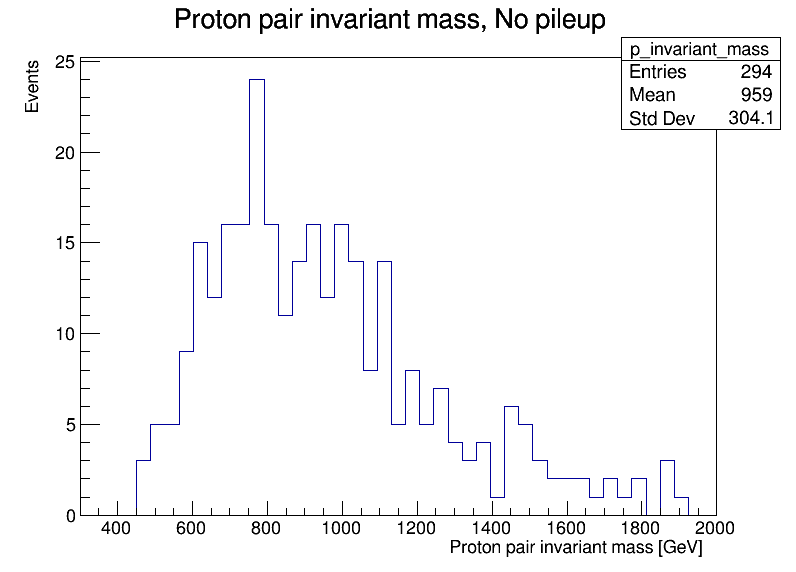
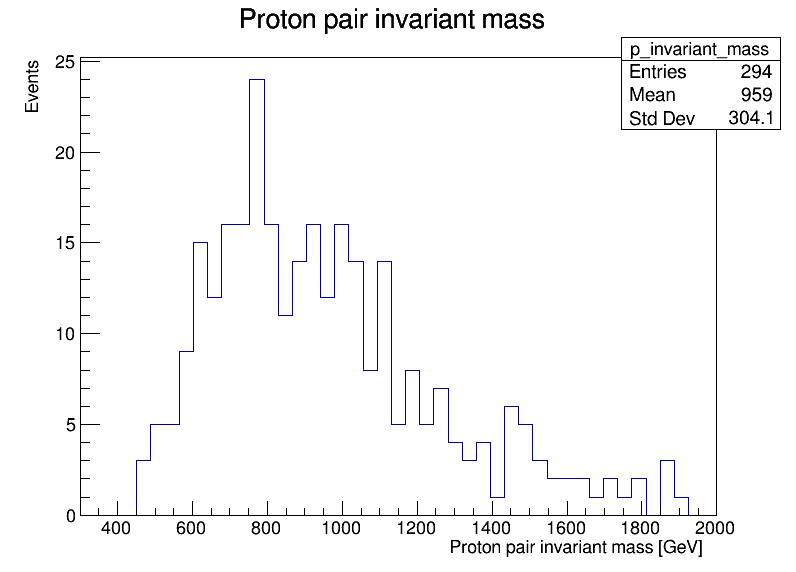
generalize plots code

Changed region(s): [[0.2111, 0.0, 0.7538, 0.0594]]

diff --git a/plots/plots2.py b/plots/plots2.py
@@ -7,104 +7,8 @@ import os
 #filename ="/eos/user/m/mblancco/samples_2018_tautau/fase1/GammaGammaTauTau_SignalMC_SM_18UL_23k_NANOAODSIM_fase1_with_xi_qcdcode.root"
 
 #filename="/eos/user/m/mblancco/samples_2018_tautau/fase0_2/ttJetscode_GammaGammaTauTau_SignalMC_SM_18UL_23k_NANOAODSIM_fase0_with_xi_and_deltaphi.root"
-filename="/eos/user/m/mblancco/samples_2018_tautau/fase0_2/ttJetsCode_GammaGammaTauTau_SignalMC_SM_18UL_23k_NANOAODSIM_fase0.root"
+#filename="/eos/user/m/mblancco/samples_2018_tautau/fase0_2/ttJetscode_GammaGammaTauTau_SignalMC_SM_18UL_23k_NANOAODSIM_fase0_no_pileups.root"
 #filename_bck="/eos/user/m/mblancco/samples_2018_tautau/fase0_background/QCD_2018_UL_skimmed_TauTau_nano.root"
-
-file = ROOT.TFile.Open(filename)
-
-if not file or file.IsZombie():
-    print(f"Error: Could not open file {filename}")
-    exit(1)
-
-tree_name = "tree"  # Replace with the actual TTree name
-tree = file.Get(tree_name)
-
-if not tree:
-    print(f"Error: Could not find TTree '{tree_name}' in file {filename}")
-    file.Close()
-    exit(1)
-    
-
-
-# Create histograms
-hist_tau0_pt = ROOT.TH1F("tau0_pt", "Tau+ pT, No pileup; pT [GeV]; Events", 100, 0, 600)
-hist_tau1_pt = ROOT.TH1F("tau1_pt", "Tau- pT, No pileup; pT [GeV]; Events", 100, 0, 600)
-hist_tau0_eta = ROOT.TH1F("tau0_eta", "Tau+ Eta, No pileup; #eta; Events", 100, -3, 3)
-hist_tau1_eta = ROOT.TH1F("tau1_eta", "Tau- Eta, No pileup; #eta; Events", 100, -3, 3)
-hist_sist_mass = ROOT.TH1F("sist_mass", "Invariant Mass of Tau Pair, No pileup; Mass [GeV]; Events", 100, 0, 1000)
-hist_sist_rap = ROOT.TH1F("sist_rap", "Rapidity of Tau Pair, No pileup; Rapidity; Events", 100, -2, 2)
-hist_delta_phi = ROOT.TH1F("delta_phi", "Delta Phi Between Tau+ and Tau-, No pileup; #Delta#phi; Events", 250, 3.06, 3.15)
-hist_xi = ROOT.TH1F("xi", "Proton Energy Loss, No pileup; Proton energy loss #xi; Events", 200, 0, 0.2)
-hist_tau0_phi = ROOT.TH1F("tau0_phi", "Tau0 Phi; #phi, No pileup; Events",100, -4, 4)
-hist_tau1_phi = ROOT.TH1F("tau1_phi", "Tau1 Phi; #phi, No pileup; Events",100, -4, 4)
-hist_ttpair_inv_mass=ROOT.TH1F("invariant_mass_tt_pair", "Tau pair invariant mass, No pileup; Tau pair invariant mass [GeV]; Events",75,0, 1000 )
-hist_invariant_mass=ROOT.TH1F("p_invariant_mass", "Proton pair invariant mass, No pileup; Proton pair invariant mass [GeV]; Events",45, 300, 2000 )
-hist_p_rapidity=ROOT.TH1F("p_rapidity", "Proton pair rapidity, No pileup; Proton pair rapidity; Events",55,-1.5,1.5 )
-hist_tt_rapidity=ROOT.TH1F("tt_rapidity", "Tau pair rapidity, No pileup; Tau pair rapidity; Events",75,-3,3)
-hist_diff_mass=ROOT.TH1F("p-t mass","p-t mass ",100,-100,2000)
-hist_diff_rapidity=ROOT.TH1F("p-t rapidity","p-t rapidity",100,-10,10)
-
-# Helper function to check if a branch exists
-def check_branch(event, branch_name):
-    if not hasattr(event, branch_name):
-        raise RuntimeError(f"Error: Branch '{branch_name}' does not exist in the event.")
-
-# Loop over the tree and fill histograms
-for event in tree:
-    # Tau kinematics
-    check_branch(event, "tau0_pt")
-    hist_tau0_pt.Fill(event.tau0_pt)
-    
-    check_branch(event, "tau1_pt")
-    hist_tau1_pt.Fill(event.tau1_pt)
-    
-    check_branch(event, "tau0_eta")
-    hist_tau0_eta.Fill(event.tau0_eta)
-    
-    check_branch(event, "tau1_eta")
-    hist_tau1_eta.Fill(event.tau1_eta)
-    
-    # Tau pair invariant mass and rapidity
-    check_branch(event, "sist_mass")
-    hist_sist_mass.Fill(event.sist_mass)
-    
-    check_branch(event, "sist_rap")
-    hist_sist_rap.Fill(event.sist_rap)
-    
-    # Delta Phi
-    check_branch(event, "delta_phi")
-    abs_delta_phi = abs(event.delta_phi)
-    hist_delta_phi.Fill(abs_delta_phi)
-    
-    # Proton energy loss
-    if hasattr(event, "proton_xi_multi_rp"):  # Optional variable
-        hist_xi.Fill(event.proton_xi_multi_rp)
-    
-    # Tau phi
-    check_branch(event, "tau0_phi")
-    hist_tau0_phi.Fill(event.tau0_phi)
-    
-    check_branch(event, "tau1_phi")
-    hist_tau1_phi.Fill(event.tau1_phi)
-    
-    # Invariant mass and rapidity
-    check_branch(event, "invariant_mass_tt_pair")
-    hist_ttpair_inv_mass.Fill(event.invariant_mass_tt_pair)
-    
-    check_branch(event, "p_invariant_mass")
-    print(event.p_invariant_mass)
-    hist_invariant_mass.Fill(event.p_invariant_mass)
-    
-    check_branch(event, "p_rapidity")
-    hist_p_rapidity.Fill(event.p_rapidity)
-    
-    # Difference in mass and rapidity
-    check_branch(event, "invariant_mass_tt_pair")
-    check_branch(event, "p_invariant_mass")
-    hist_diff_mass.Fill(event.p_invariant_mass - event.invariant_mass_tt_pair)
-    
-    check_branch(event, "tt_rapidity")
-    hist_diff_rapidity.Fill(event.p_rapidity - event.tt_rapidity)
 
 
 
@@ -117,30 +21,181 @@ def save_histogram(hist, filename):
     canvas.Close()  # Close the canvas to free memory
     print(f"Saved {filename}")
 
-dirr="/eos/user/m/mblancco/tau_analysis/plots/plots_fase0/"
+# Helper function to check if a branch exists
+def check_branch(event, branch_name):
+    if not hasattr(event, branch_name):
+        raise RuntimeError(f"Error: Branch '{branch_name}' does not exist in the event.")
 
-if not os.path.exists(dirr):
-    os.makedirs(dirr)
+    
+def create_hist(input,vars,dest,pileup):
+    
+    file = ROOT.TFile.Open(input)
+
+    if not file or file.IsZombie():
+        print(f"Error: Could not open file {input}")
+        exit(1)
+
+    tree_name = "tree"  # Replace with the actual TTree name
+    tree = file.Get(tree_name)
+
+    if not tree:
+        print(f"Error: Could not find TTree '{tree_name}' in file {input}")
+        file.Close()
+        exit(1)
+
+
+    if not os.path.exists(dest):
+        os.makedirs(dest)
+
+
+    title=""
+    bins=0
+    for v in vars:
+        # v0=v[0].replace("'",'')
+        # v1=v[1].replace("'",'')
+
+        if pileup:
+            title="No pileup: "+v[1]
+            bins=v[5]
+        else:
+            title=v[1]
+            bins=v[2]
+        print(v[0])
+        print(v[1])
+        print(v[2])
+        
+        hist=ROOT.TH1F(v[0],title,int(v[2]),float(v[3]),float(v[4]))
+        #hist=ROOT.TH1F("tau0_pt", "Tau+ pT; pT [GeV]; Events", 80, 0, 600)
+        
+        for event in tree:
+            check_branch(event,v[0])
+            hist.Fill(getattr(event, v[0]))
+        filenam=dest+"hist_"+v[0]+".png"
+        save_histogram(hist,filenam)
+    file.Close()
+
+# vars=[["tau0_pt", "Tau+ pT; pT [GeV]; Events",'80', '0', '600'], ['"tau1_pt"', ' "Tau- pT; pT [GeV]; Events"', ' 80', ' 0', ' 600']]
+vars=[]
+
+f=open("vars2.txt","r")
+for line in f:
+    vars.append(line.strip().split(","))
+
+
+
+filename="/eos/user/m/mblancco/samples_2018_tautau/fase0_2/ttJetsCode_GammaGammaTauTau_SignalMC_SM_18UL_23k_NANOAODSIM_fase0.root"
+filename_no_pileup="/eos/user/m/mblancco/samples_2018_tautau/fase0_2/ttJetscode_GammaGammaTauTau_SignalMC_SM_18UL_23k_NANOAODSIM_fase0_no_pileups.root"
+
+
+
+
+create_hist(filename,vars,"/eos/user/m/mblancco/tau_analysis/plots/fase0/",pileup=False)
+create_hist(filename_no_pileup,vars,"/eos/user/m/mblancco/tau_analysis/plots/fase0_no_pileup/",pileup=True)
+
+# # Create histograms
+# hist_tau0_pt = ROOT.TH1F("tau0_pt", "Tau+ pT; pT [GeV]; Events", 80, 0, 600)
+# hist_tau1_pt = ROOT.TH1F("tau1_pt", "Tau- pT; pT [GeV]; Events", 80, 0, 600)
+# hist_tau0_eta = ROOT.TH1F("tau0_eta", "Tau+ Eta; #eta; Events", 80, -3, 3)
+# hist_tau1_eta = ROOT.TH1F("tau1_eta", "Tau- Eta; #eta; Events", 80, -3, 3)
+# hist_sist_mass = ROOT.TH1F("sist_mass", "Invariant Mass of Tau Pair; Mass [GeV]; Events", 75, 0, 1000)
+# hist_sist_rap = ROOT.TH1F("sist_rap", "Rapidity of Tau Pair; Rapidity; Events", 75, -2, 2)
+# hist_delta_phi = ROOT.TH1F("delta_phi", "Delta Phi Between Tau+ and Tau-; #Delta#phi; Events", 200, 3.06, 3.16)
+# hist_xi = ROOT.TH1F("xi", "Proton Energy Loss; Proton energy loss #xi; Events", 100, 0, 0.2)
+# hist_tau0_phi = ROOT.TH1F("tau0_phi", "Tau0 Phi; #phi; Events",100, -4, 4)
+# hist_tau1_phi = ROOT.TH1F("tau1_phi", "Tau1 Phi; #phi, No pileup; Events",100, -4, 4)
+# hist_ttpair_inv_mass=ROOT.TH1F("invariant_mass_tt_pair", "Tau pair invariant mass; Tau pair invariant mass [GeV]; Events",60,0, 1000 )
+# hist_invariant_mass=ROOT.TH1F("p_invariant_mass", "Proton pair invariant mass; Proton pair invariant mass [GeV]; Events",45, 300, 2000 )
+# hist_p_rapidity=ROOT.TH1F("p_rapidity", "Proton pair rapidity; Proton pair rapidity; Events",75,-1.5,1.5 )
+# hist_tt_rapidity=ROOT.TH1F("tt_rapidity", "Tau pair rapidity; Tau pair rapidity; Events",75,-3,3)
+# hist_diff_mass=ROOT.TH1F("p-t mass","p-t mass ",100,-100,2000)
+# hist_diff_rapidity=ROOT.TH1F("p-t rapidity","p-t rapidity",100,-10,10)
+
+
+
+# # Loop over the tree and fill histograms
+# for event in tree:
+#     # Tau kinematics
+#     check_branch(event, "tau0_pt")
+#     hist_tau0_pt.Fill(event.tau0_pt)
+    
+#     check_branch(event, "tau1_pt")
+#     hist_tau1_pt.Fill(event.tau1_pt)
+    
+#     check_branch(event, "tau0_eta")
+#     hist_tau0_eta.Fill(event.tau0_eta)
+    
+#     check_branch(event, "tau1_eta")
+#     hist_tau1_eta.Fill(event.tau1_eta)
+    
+#     # Tau pair invariant mass and rapidity
+#     check_branch(event, "sist_mass")
+#     hist_sist_mass.Fill(event.sist_mass)
+    
+#     check_branch(event, "sist_rap")
+#     hist_sist_rap.Fill(event.sist_rap)
+    
+#     # Delta Phi
+#     check_branch(event, "delta_phi")
+#     abs_delta_phi = abs(event.delta_phi)
+#     hist_delta_phi.Fill(abs_delta_phi)
+    
+#     # Proton energy loss
+#     if hasattr(event, "proton_xi_multi_rp"):  # Optional variable
+#         hist_xi.Fill(event.proton_xi_multi_rp)
+    
+#     # Tau phi
+#     check_branch(event, "tau0_phi")
+#     hist_tau0_phi.Fill(event.tau0_phi)
+    
+#     check_branch(event, "tau1_phi")
+#     hist_tau1_phi.Fill(event.tau1_phi)
+    
+#     # Invariant mass and rapidity
+#     check_branch(event, "invariant_mass_tt_pair")
+#     hist_ttpair_inv_mass.Fill(event.invariant_mass_tt_pair)
+    
+#     check_branch(event, "p_invariant_mass")
+#     print(event.p_invariant_mass)
+#     hist_invariant_mass.Fill(event.p_invariant_mass)
+    
+#     check_branch(event, "p_rapidity")
+#     hist_p_rapidity.Fill(event.p_rapidity)
+    
+#     # Difference in mass and rapidity
+#     check_branch(event, "invariant_mass_tt_pair")
+#     check_branch(event, "p_invariant_mass")
+#     hist_diff_mass.Fill(event.p_invariant_mass - event.invariant_mass_tt_pair)
+    
+#     check_branch(event, "tt_rapidity")
+#     hist_diff_rapidity.Fill(event.p_rapidity - event.tt_rapidity)
+
+
+
+
+# dirr="/eos/user/m/mblancco/tau_analysis/plots/plots_fase0_no_pileup/"
+
+# if not os.path.exists(dirr):
+#     os.makedirs(dirr)
 
 # Save histograms
-save_histogram(hist_tau0_pt, dirr+"tau0_pt.png")
-save_histogram(hist_tau1_pt, dirr+"tau1_pt.png")
-save_histogram(hist_tau0_eta, dirr+"tau0_eta.png")
-save_histogram(hist_tau1_eta, dirr+"tau1_eta.png")
-save_histogram(hist_sist_mass, dirr+"sist_mass.png")
-save_histogram(hist_sist_rap, dirr+"sist_rap.png")
-save_histogram(hist_delta_phi, dirr+"delta_phi_new.png")
-save_histogram(hist_xi, dirr+"proton_xi.png")
-save_histogram(hist_tau0_phi, dirr+"tau0_phi.png")
-save_histogram(hist_tau1_phi, dirr+"tau1_phi.png")
-save_histogram(hist_ttpair_inv_mass, dirr+"tt_inv_mass.png")
-save_histogram(hist_invariant_mass, dirr+"p_inv_mass.png")
-save_histogram(hist_tt_rapidity, dirr+"tt_rapidity.png")
-save_histogram(hist_p_rapidity, dirr+"p_rapidity.png")
-save_histogram(hist_diff_mass,dirr+"p-t mass.png")
-save_histogram(hist_diff_rapidity,dirr+"p-t rapidity.png")
+# save_histogram(hist_tau0_pt, dirr+"tau0_pt.png")
+# save_histogram(hist_tau1_pt, dirr+"tau1_pt.png")
+# save_histogram(hist_tau0_eta, dirr+"tau0_eta.png")
+# save_histogram(hist_tau1_eta, dirr+"tau1_eta.png")
+# save_histogram(hist_sist_mass, dirr+"sist_mass.png")
+# save_histogram(hist_sist_rap, dirr+"sist_rap.png")
+# save_histogram(hist_delta_phi, dirr+"delta_phi_new.png")
+# save_histogram(hist_xi, dirr+"proton_xi.png")
+# save_histogram(hist_tau0_phi, dirr+"tau0_phi.png")
+# save_histogram(hist_tau1_phi, dirr+"tau1_phi.png")
+# save_histogram(hist_ttpair_inv_mass, dirr+"tt_inv_mass.png")
+# save_histogram(hist_invariant_mass, dirr+"p_inv_mass.png")
+# save_histogram(hist_tt_rapidity, dirr+"tt_rapidity.png")
+# save_histogram(hist_p_rapidity, dirr+"p_rapidity.png")
+# save_histogram(hist_diff_mass,dirr+"p-t mass.png")
+# save_histogram(hist_diff_rapidity,dirr+"p-t rapidity.png")
 
 
 # Close the ROOT file
-file.Close()
+
 print("Analysis complete. Histograms saved without displaying.")
